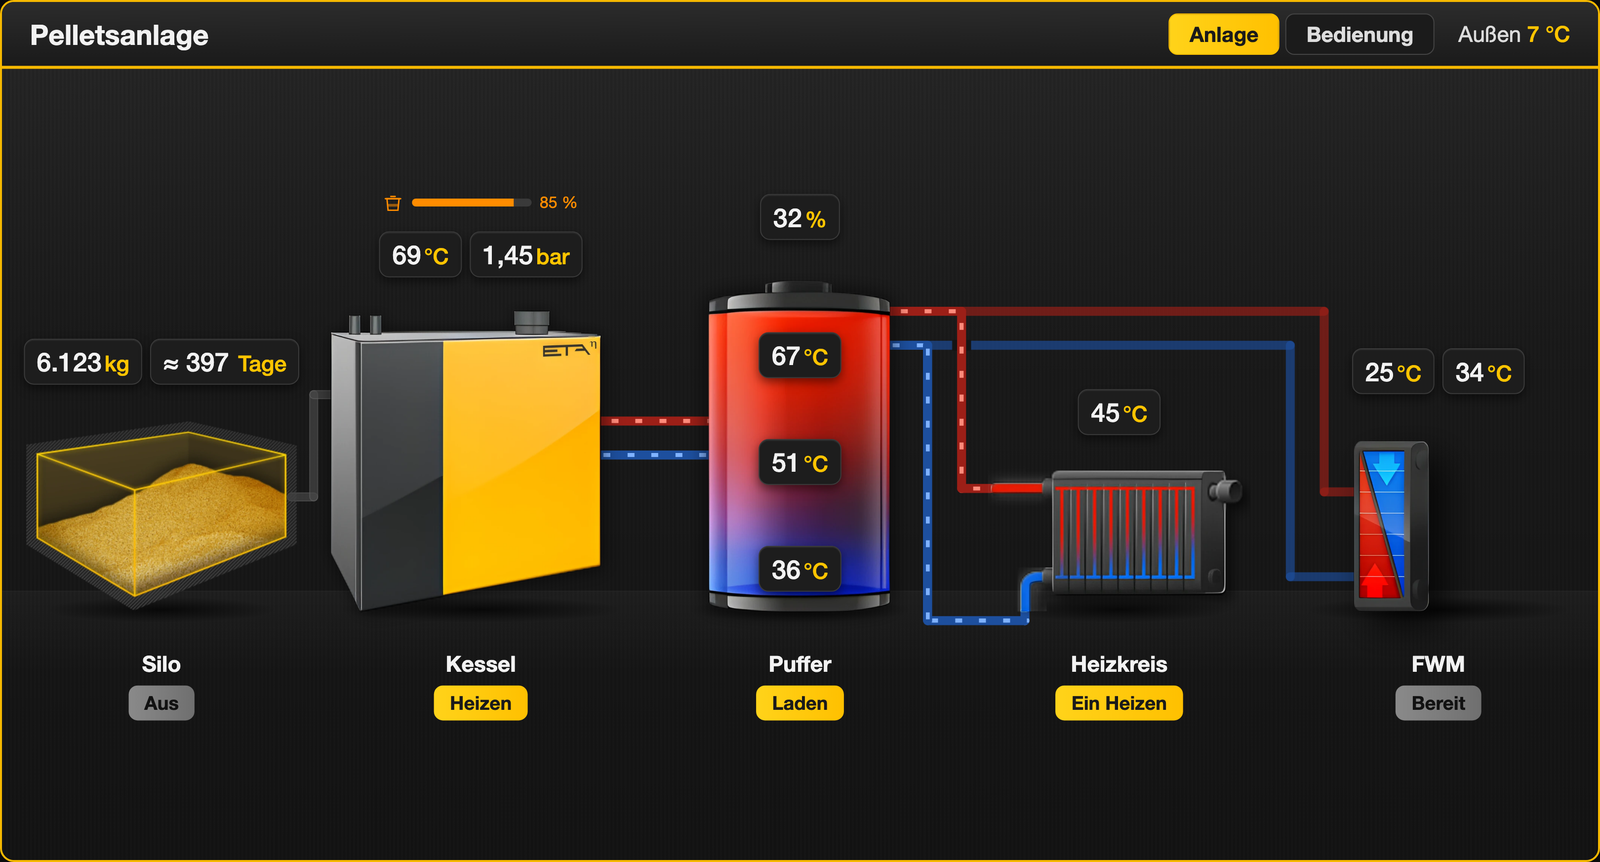
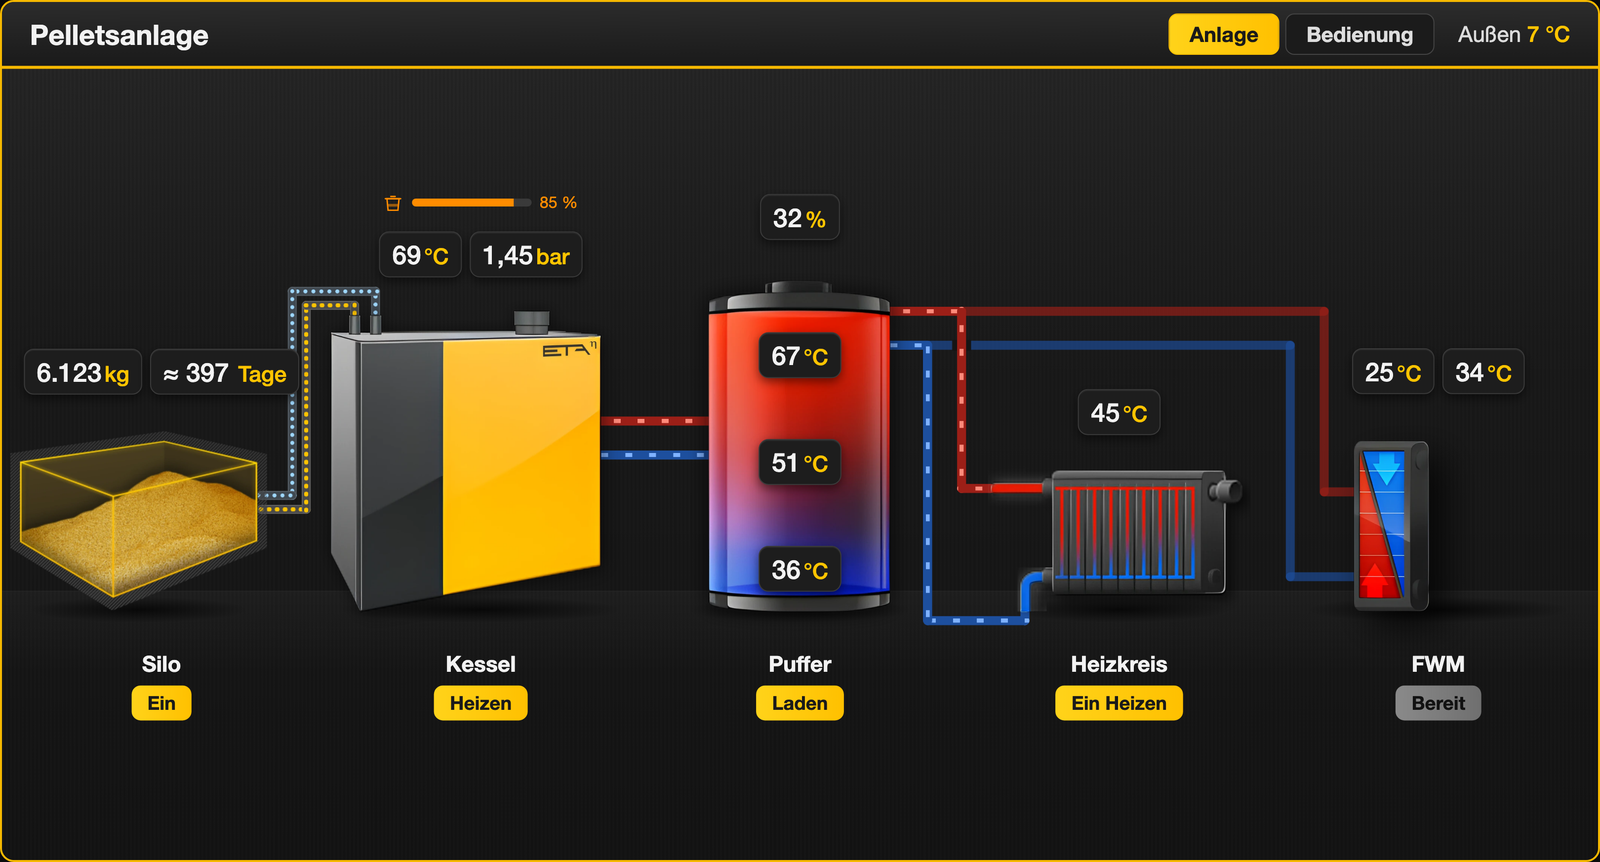
Two pellet hoses with return air

Changed region(s): [[0.0, 0.3318, 0.25, 0.7239], [0.0625, 0.7842, 0.125, 0.8445]]

diff --git a/custom_components/eta_webservices/www/eta-plant-card.js b/custom_components/eta_webservices/www/eta-plant-card.js
@@ -157,6 +157,19 @@
     "Kessel/HackVR/HackVR_gelb.webp": [0.211, 0.300],
     "Kessel/HackVR/HackVR_grau.webp": [0.211, 0.300],
   };
+  // hose stubs on the boiler roof (image fractions): [suction x, return-air x, stub top y];
+  // the stub nearer to the store takes the suction hose
+  const STUBS = {
+    "Kessel/Pellets/PU_PC_neu.webp": [0.128, 0.190, 0.069],
+    "Kessel/Pellets/PU_PC_grau.webp": [0.128, 0.190, 0.069],
+    "Kessel/ePE/ePE_HW.webp": [0.305, 0.367, 0.078],
+    "Kessel/ePE/ePE_einblick.webp": [0.305, 0.367, 0.078],
+    "Kessel/ePE_BW/ePE_BW.webp": [0.214, 0.313, 0.059],
+  };
+  // boilers without pellet hoses: log and wood chip boilers (the chip store keeps its auger)
+  const NO_HOSE = /^Kessel\/(SH|eSH|Hack|eHack|HackVR)\//;
+  // free space between pellet store and boiler for the hoses
+  const HOSE_GAP = 64;
   // visible height of the device on the 1600px canvas, per block type
   const TARGET_H = {
     silo: 220, chip_store: 200, boiler: 300, buffer: 330, heating_circuit: 140, fwm: 170,
@@ -322,6 +335,11 @@
   .p.pe.v i{background:radial-gradient(circle at 2px 3px,#ffc400 0 2.2px,transparent 2.6px) 0 0/4px 8px repeat-y}
   .on .p.pe.h i{animation:mx .6s linear infinite}.on .p.pe.v i{animation:my .6s linear infinite}
   .on .p.pe.rev i{animation-direction:reverse}
+  .p.air{background:#3f4850;box-shadow:inset 0 0 0 1px rgba(255,255,255,.12)}
+  .p.air.h i{background:radial-gradient(circle at 3px 2px,#9fd8ff 0 1.8px,transparent 2.2px) 0 0/8px 4px repeat-x}
+  .p.air.v i{background:radial-gradient(circle at 2px 3px,#9fd8ff 0 1.8px,transparent 2.2px) 0 0/4px 8px repeat-y}
+  .on .p.air.h i{animation:mx .6s linear infinite}.on .p.air.v i{animation:my .6s linear infinite}
+  .on .p.air.rev i{animation-direction:reverse}
   .band{position:absolute;height:16px;border-radius:4px;overflow:hidden;background:#3a3a3a;box-shadow:inset 0 0 0 1px rgba(255,255,255,.12)}
   .band i{position:absolute;left:-20px;right:-20px;top:0;bottom:0;will-change:transform;
     background:repeating-linear-gradient(45deg,#ffc400 0 9px,#2a2400 9px 14px)}
@@ -515,10 +533,11 @@
         const sink = (1 - bx[3]) * h; // transparent margin below the device
         const y0 = FLOOR - h + sink;
         return {
-          b, file, cx, w, h, x0, y0, sink, left: x0 + bx[0] * w, right: x0 + bx[2] * w,
+          b, file, bx, cx, w, h, x0, y0, sink, left: x0 + bx[0] * w, right: x0 + bx[2] * w,
           top: y0 + bx[1] * h, bottom: y0 + bx[3] * h, anchors: ANCHORS[file],
         };
       });
+      this._roomForHoses();
 
       const plant = this._topo.plant || {};
       const firstBoiler = blocks.find((x) => x.type === "boiler");
@@ -541,7 +560,7 @@
           : "";
         html += `<div class="blk t-${b.type}" data-b="${b.id}" style="left:${g.cx - colW / 2}px;width:${colW}px">
           <div class="stack">${b.type === "boiler" && plant.ash_fill && b === firstBoiler ? `<div class="ashrow" data-ash="${plant.ash_fill}">${ashSvg(22)}<div class="ashbar"><i></i></div><span class="pc"></span></div>` : ""}<div class="vals">${vals}</div>
-          <div class="icon" style="margin-bottom:${-g.sink}px"><div class="shadow" style="bottom:${g.sink - 12}px"></div><img data-type="${b.type}" src="${iconSrc(g.file)}" style="width:${g.w}px">${tank}</div></div>
+          <div class="icon" style="margin-bottom:${-g.sink}px${g.dx ? `;transform:translateX(${g.dx}px)` : ""}"><div class="shadow" style="bottom:${g.sink - 12}px"></div><img data-type="${b.type}" src="${iconSrc(g.file)}" style="width:${g.w}px">${tank}</div></div>
           <div class="name">${this._name(b)}</div>
           ${b.roles.status ? `<div class="chip" data-chip="${b.roles.status}"></div>` : ""}
         </div>`;
@@ -793,6 +812,31 @@
       return n.replace(/\[/g, "(").replace(/\]/g, ")") || this._t(b.type);
     }
 
+    // pellet hoses need room between store and boiler: move the store image left, then
+    // shrink it; its values and name stay centred in the column
+    _roomForHoses() {
+      const si = this._geo.findIndex((g) => g.b.type === "silo");
+      const st = this._geo[si];
+      const bo = this._geo[si + 1];
+      if (!st || !bo || bo.b.type !== "boiler" || NO_HOSE.test(bo.file)) return;
+      let lack = HOSE_GAP - (bo.left - st.right);
+      if (lack <= 0) return;
+      const move = Math.min(lack, Math.max(0, st.left - 8));
+      lack -= move;
+      let k = 1;
+      if (lack > 0) k = Math.max(0.6, 1 - lack / (st.right - st.left));
+      const left = st.left - move;
+      const w = st.w * k;
+      const h = st.h * k;
+      const x0 = left - st.bx[0] * w;
+      const sink = (1 - st.bx[3]) * h;
+      const y0 = FLOOR - h + sink;
+      Object.assign(st, {
+        w, h, x0, y0, sink, dx: x0 + w / 2 - st.cx, left, right: x0 + st.bx[2] * w,
+        top: y0 + st.bx[1] * h, bottom: y0 + st.bx[3] * h,
+      });
+    }
+
     _pipes() {
       const g = this._geo;
       const find = (t) => g.find((x) => x.b.type === t);
@@ -824,14 +868,44 @@
       const group = (key, inner) => `<div class="g" data-flow="${key}">${inner}</div>`;
       let s = "";
       if (silo && boiler) {
-        if (silo.b.type === "silo") {
-          // pellet suction hose: from the store up into the upper side of the boiler (hopper)
+        if (silo.b.type === "silo" && NO_HOSE.test(boiler.file)) {
+          // log or wood chip boiler: no pellet suction
+        } else if (silo.b.type === "silo") {
+          // pellet suction system: suction hose (pellets to the boiler) and return air
+          // hose (back to the store), side by side without crossing: the return hose
+          // leaves the store higher, runs on the outer side and ends at the farther stub
+          const D = 14; // distance between the two hoses
           const y0 = silo.top + (silo.bottom - silo.top) * 0.4;
+          const st = STUBS[boiler.file];
           const f = FEED[boiler.file];
-          const xe = f ? boiler.x0 + f[0] * boiler.w : boiler.left;
-          const yb = f ? boiler.y0 + f[1] * boiler.h : boiler.top + (boiler.bottom - boiler.top) * 0.16;
-          const xm = silo.right + Math.max(14, (Math.min(xe, boiler.left + 40) - silo.right) / 2);
-          s += group(silo.b.id, line([[silo.right - 6, y0], [xm, y0], [xm, yb], [xe + 3, yb]], "pe"));
+          let ends; // [x, y of the run towards the boiler, y where the hose ends]
+          if (st) {
+            // from above into the two stubs on the boiler roof
+            const top = boiler.y0 + st[2] * boiler.h;
+            ends = {
+              suction: [boiler.x0 + st[0] * boiler.w, top - 10, top + 2],
+              air: [boiler.x0 + st[1] * boiler.w, top - 10 - D, top + 2],
+            };
+          } else {
+            // sideways into the boiler, at its hopper
+            const xe = (f ? boiler.x0 + f[0] * boiler.w : boiler.left) + 3;
+            const yb = f ? boiler.y0 + f[1] * boiler.h : boiler.top + (boiler.bottom - boiler.top) * 0.16;
+            ends = { suction: [xe, yb + D / 2, null], air: [xe, yb - D / 2, null] };
+          }
+          // risers in the middle of the gap between store and boiler; the outer (air)
+          // riser is left of the suction riser when going up, right when going down
+          const xc = (silo.right + Math.min(boiler.left, ends.suction[0])) / 2;
+          const up = ends.suction[1] < y0;
+          const xs = xc + (up ? D / 2 : -D / 2);
+          const xa = xc + (up ? -D / 2 : D / 2);
+          const path = (x, ya, e) => {
+            const pts = [[silo.right - 6, ya], [x, ya], [x, e[1]], [e[0], e[1]]];
+            if (e[2] !== null) pts.push([e[0], e[2]]);
+            return pts;
+          };
+          const suction = path(xs, y0 + D / 2, ends.suction);
+          const air = path(xa, y0 - D / 2, ends.air).reverse(); // flows back to the store
+          s += group(silo.b.id, line(suction, "pe") + line(air, "air"));
         } else {
           // wood chip discharge auger at floor level
           const y = Math.min(silo.bottom, boiler.bottom) - 34;
